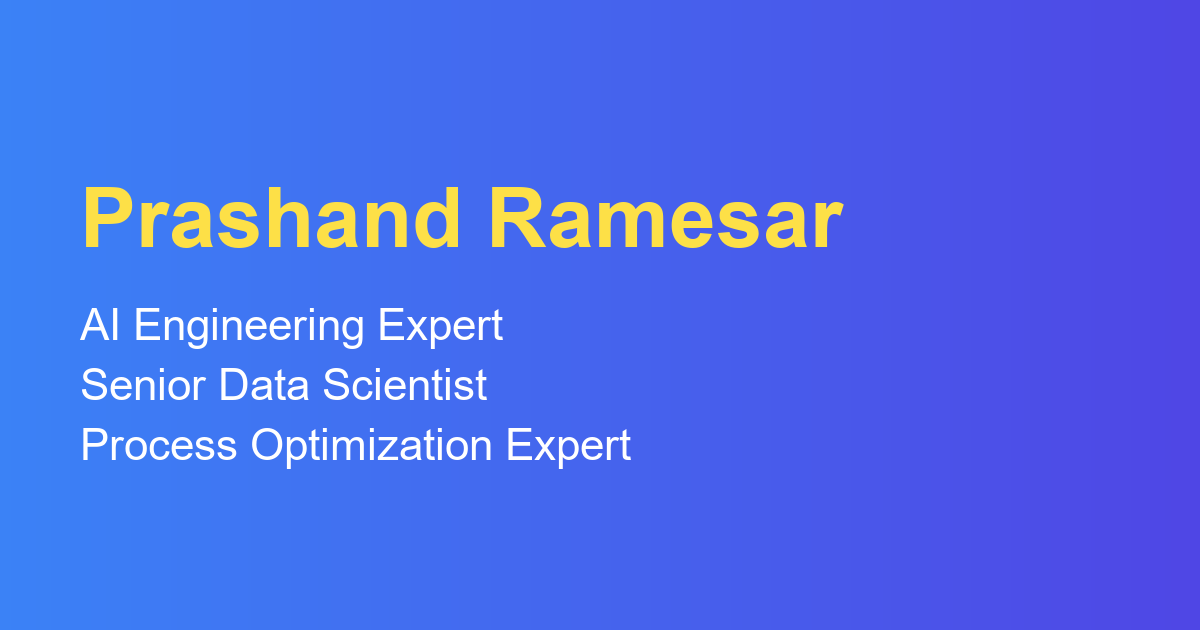
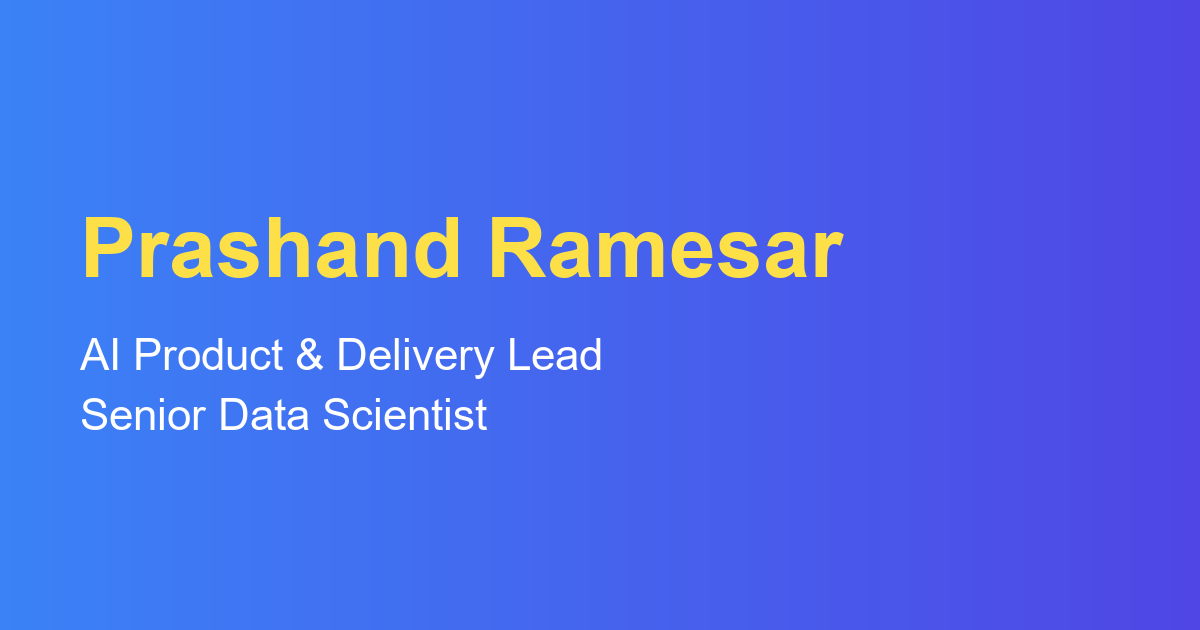
Update the headline and describe KAAI more accurately
Change the headline to AI Product & Delivery Lead | Senior Data Scientist, which
better fits the roles the site targets, including on the share image.

Describe KAAI as agents orchestrating live transcripts, vector database retrieval,
prompts and delivery of the correct information. Add two real decisions: improving
ways of working across countries, and delaying launches when a feature fell short.

Remove the line saying the human agent handles the customer, as it was inferred.

Changed region(s): [[0.0617, 0.4825, 0.5242, 0.754], [0.0617, 0.2714, 0.7092, 0.4524]]

diff --git a/templates/kaai.html b/templates/kaai.html
@@ -36,24 +36,24 @@
             <div class="bg-white rounded-lg shadow-md p-8 mb-8">
                 <h2 class="text-2xl font-bold mb-4">The product</h2>
                 <p class="text-gray-700 mb-6">
-                    KAAI works alongside the human agent during a call. The human agent handles the customer, while AI agents supply relevant information as the conversation unfolds.
+                    KAAI supports human call center agents during live calls. Its AI agents orchestrate the whole exchange between the live call transcript, the knowledge in a vector database, the prompts, and delivering the correct information.
                 </p>
                 <ol class="grid grid-cols-1 md:grid-cols-4 gap-4">
                     <li class="bg-gray-100 rounded-lg p-4">
                         <p class="font-bold text-blue-600 mb-1">1. Listen</p>
-                        <p class="text-gray-700 text-sm">Follow the live call.</p>
+                        <p class="text-gray-700 text-sm">Follow the conversation through the live call transcript.</p>
                     </li>
                     <li class="bg-gray-100 rounded-lg p-4">
-                        <p class="font-bold text-blue-600 mb-1">2. Transcribe</p>
-                        <p class="text-gray-700 text-sm">Turn the conversation into text.</p>
+                        <p class="font-bold text-blue-600 mb-1">2. Retrieve</p>
+                        <p class="text-gray-700 text-sm">Retrieve the relevant chunks from the vector database.</p>
                     </li>
                     <li class="bg-gray-100 rounded-lg p-4">
-                        <p class="font-bold text-blue-600 mb-1">3. Prompt</p>
-                        <p class="text-gray-700 text-sm">Prompt the human agent during the call.</p>
+                        <p class="font-bold text-blue-600 mb-1">3. Read prompts</p>
+                        <p class="text-gray-700 text-sm">Read the prompts that guide what happens next.</p>
                     </li>
                     <li class="bg-gray-100 rounded-lg p-4">
-                        <p class="font-bold text-blue-600 mb-1">4. Recommend</p>
-                        <p class="text-gray-700 text-sm">Recommend relevant information to the human agent.</p>
+                        <p class="font-bold text-blue-600 mb-1">4. Deliver</p>
+                        <p class="text-gray-700 text-sm">Deliver the correct information.</p>
                     </li>
                 </ol>
             </div>
@@ -71,6 +71,19 @@
                     <li><strong>Escalating relevant topics</strong> to senior management</li>
                     <li><strong>Keeping up team motivation and happiness</strong></li>
                 </ul>
+            </div>
+
+            <!-- Decisions -->
+            <div class="bg-white rounded-lg shadow-md p-8 mb-8">
+                <h2 class="text-2xl font-bold mb-6">Two decisions that shaped the project</h2>
+                <h3 class="text-xl font-bold mb-2">Improving how we worked</h3>
+                <p class="text-gray-700 mb-6">
+                    We pushed for retrospectives and came together from different countries to establish a better way of working. Optimizing the process was part of delivering the product.
+                </p>
+                <h3 class="text-xl font-bold mb-2">Delaying launches when a feature fell short</h3>
+                <p class="text-gray-700">
+                    One feature did not perform as well as we wanted, so we delayed feature launches and went back to the drawing board.
+                </p>
             </div>
 
             <!-- Result -->

diff --git a/templates/index.html b/templates/index.html
@@ -1,6 +1,6 @@
 {% extends 'base.html' %}
 
-{% block title %}Prashand Ramesar | AI Engineering and Process Optimization{% endblock %}
+{% block title %}Prashand Ramesar | AI Product and Delivery Lead{% endblock %}
 {% block description %}Prashand Ramesar takes AI products from business need to production, and keeps building hands-on projects to stay close to the technology.{% endblock %}
 
 {% block footer_margin %}{% endblock %}
@@ -10,7 +10,7 @@
     <div class="bg-gradient-to-r from-blue-500 to-indigo-600 text-white">
         <div class="container mx-auto px-6 py-20">
             <h1 class="text-4xl md:text-5xl font-bold mb-4">Hi, I'm <span class="text-yellow-300">Prashand Ramesar</span></h1>
-            <h2 class="text-xl md:text-2xl mb-8">AI Engineering Expert | Senior Data Scientist | Process Optimization Expert</h2>
+            <h2 class="text-xl md:text-2xl mb-8">AI Product &amp; Delivery Lead | Senior Data Scientist</h2>
             <p class="text-xl mb-10 max-w-2xl">
                 I take AI products from business need to production, keeping stakeholders, priorities and teams aligned along the way. I still build in my own time, to stay close to the technology.
             </p>
@@ -56,7 +56,7 @@
                 <div class="p-6">
                     <h3 class="text-xl font-bold mb-2">KAAI</h3>
                     <p class="text-gray-600 mb-4">
-                        AI agents that listen, transcribe, prompt and recommend information to human call center agents during live calls.
+                        AI agents that listen, retrieve and supply information to support human call center agents during live calls.
                     </p>
                     <a href="/kaai" class="text-blue-600 font-medium hover:text-blue-800">
                         Read the case study →
@@ -122,14 +122,14 @@
                         <li>Scoping business requirements</li>
                         <li>Translating them into technical requirements</li>
                         <li>AI support for call center work</li>
-                        <li>Working across many disciplines</li>
+                        <li>Working across disciplines and countries</li>
                     </ul>
                 </div>
 
                 <div>
                     <h3 class="text-xl font-bold mb-4 text-yellow-300">AI and data science</h3>
                     <ul class="space-y-2">
-                        <li>AI agents in production</li>
+                        <li>AI agents and vector retrieval in production</li>
                         <li>Machine learning and computer vision</li>
                         <li>Predictive and generative models</li>
                         <li>Python, FastAPI and TensorFlow Lite</li>

diff --git a/templates/projects.html b/templates/projects.html
@@ -24,7 +24,7 @@
                         <span class="bg-yellow-100 text-yellow-800 text-xs font-semibold px-2 py-1 rounded">Professional</span>
                     </div>
                     <p class="text-gray-600 mb-4">
-                        AI agents that listen, transcribe, prompt and recommend information to human call center agents during live calls. In production within a few months.
+                        AI agents that listen, retrieve and supply information to support human call center agents during live calls. In production within a few months.
                     </p>
                     <div class="flex flex-wrap gap-2 mb-4">
                         <span class="bg-gray-100 text-gray-800 text-xs px-2 py-1 rounded">Process lead</span>

diff --git a/templates/about.html b/templates/about.html
@@ -16,7 +16,7 @@
                 </div>
                 <div class="md:w-2/3 p-8">
                     <h2 class="text-3xl font-bold mb-2">Prashand Ramesar</h2>
-                    <h3 class="text-xl text-gray-600 mb-4">AI Engineering Expert | Senior Data Scientist | Process Optimization Expert</h3>
+                    <h3 class="text-xl text-gray-600 mb-4">AI Product &amp; Delivery Lead | Senior Data Scientist</h3>
                     <p class="text-gray-700 mb-4">
                         I'm a senior data scientist with expertise in machine learning, computer vision, and predictive analytics. I've worked in the field since 2019, on various projects across different industries at ANWB.
                     </p>

diff --git a/templates/base.html b/templates/base.html
@@ -4,7 +4,7 @@
     <meta charset="UTF-8">
     <meta name="viewport" content="width=device-width, initial-scale=1.0">
     <title>{% block title %}{% endblock %}</title>
-    <meta name="description" content="{% block description %}Prashand Ramesar: AI engineering, senior data science and process optimization.{% endblock %}">
+    <meta name="description" content="{% block description %}Prashand Ramesar: AI product and delivery lead, and senior data scientist.{% endblock %}">
     <meta property="og:type" content="website">
     <meta property="og:title" content="{{ self.title() }}">
     <meta property="og:description" content="{{ self.description() }}">
